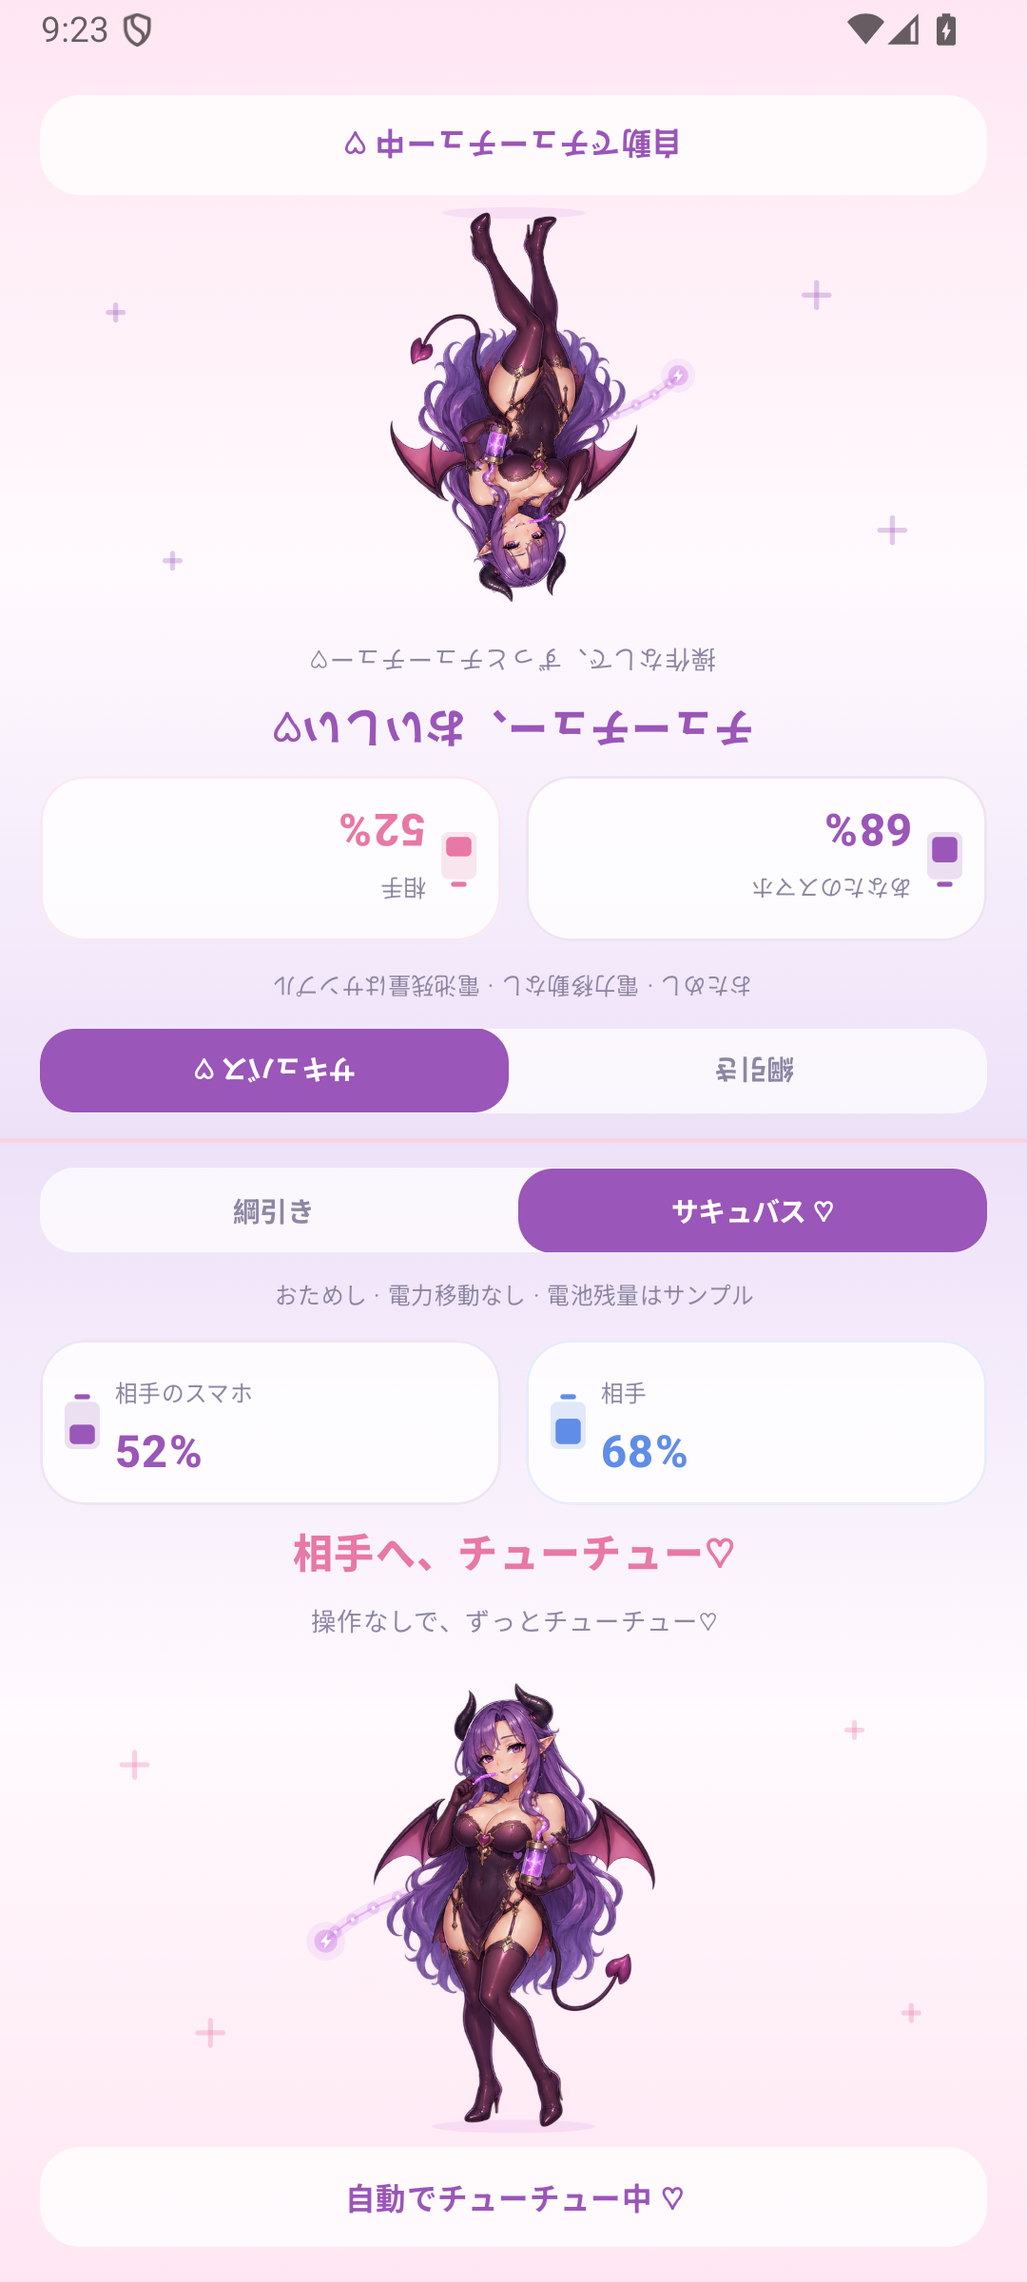
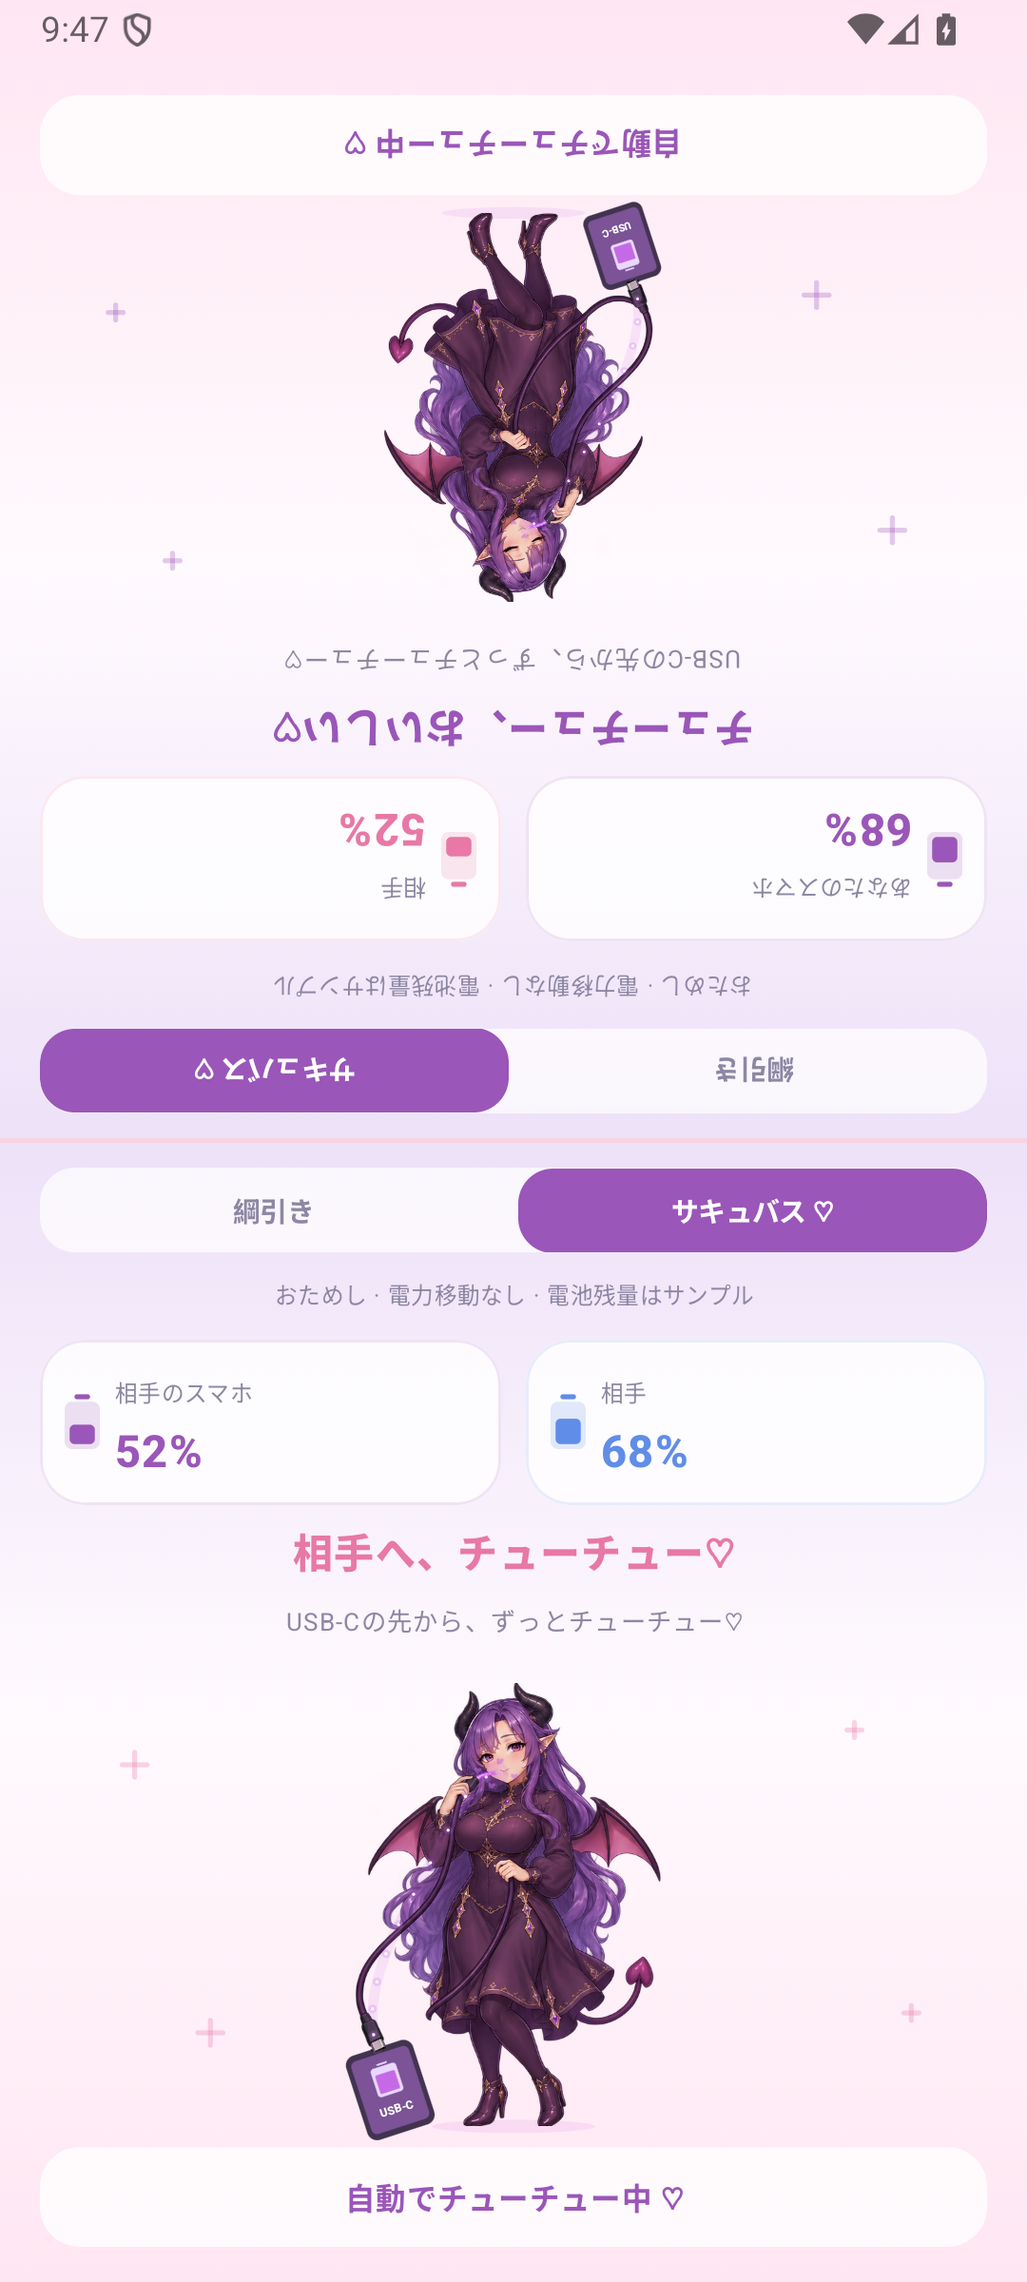
Show succubus sipping electricity from a connected USB-C cable

diff --git a/app/src/main/java/com/kenkawamoto/powerstruggle/SuccubusAnimation.kt b/app/src/main/java/com/kenkawamoto/powerstruggle/SuccubusAnimation.kt
@@ -14,6 +14,7 @@ import androidx.compose.runtime.setValue
 import androidx.compose.runtime.withFrameNanos
 import androidx.compose.ui.Modifier
 import androidx.compose.ui.geometry.Offset
+import androidx.compose.ui.geometry.CornerRadius
 import androidx.compose.ui.geometry.Size
 import androidx.compose.ui.graphics.Color
 import androidx.compose.ui.graphics.Path
@@ -41,37 +42,40 @@ private val Magic = Color(0xFFC56AE6)
 
 /** Adult character poses; original transparent artwork remains unchanged on disk. */
 private class SuccubusSprites(resources: Resources) {
-    class Frame(val bitmap: Bitmap, val feet: Offset, val battery: Offset, val mouth: Offset) {
+    class Frame(val bitmap: Bitmap, val feet: Offset, val cableTail: Offset, val usbTip: Offset, val upperRow: Boolean) {
         val vertices = FloatArray((SIP_COLUMNS + 1) * (SIP_ROWS + 1) * 2)
     }
     val paint = Paint(Paint.ANTI_ALIAS_FLAG or Paint.FILTER_BITMAP_FLAG)
+    val labelPaint = Paint(Paint.ANTI_ALIAS_FLAG).apply {
+        color = android.graphics.Color.WHITE
+        textSize = 19f
+        textAlign = Paint.Align.CENTER
+        typeface = android.graphics.Typeface.DEFAULT_BOLD
+    }
     val frames: List<Frame>
 
     init {
-        val atlas = checkNotNull(BitmapFactory.decodeResource(resources, R.drawable.succubus_sip_atlas))
+        val atlas = checkNotNull(BitmapFactory.decodeResource(resources, R.drawable.succubus_usb_sip_atlas))
         val sx = atlas.width / 1143f
         val sy = atlas.height / 1376f
         val anchors = listOf(
-            floatArrayOf(333f, 683f, 380f, 275f, 329f, 138f),
-            floatArrayOf(270f, 683f, 342f, 275f, 289f, 138f),
-            floatArrayOf(335f, 685f, 375f, 273f, 329f, 135f),
-            floatArrayOf(272f, 686f, 340f, 277f, 292f, 140f),
+            floatArrayOf(339f, 687f, 128f, 568f, 310f, 140f),
+            floatArrayOf(282f, 687f, 71f, 568f, 253f, 140f),
+            floatArrayOf(339f, 683f, 128f, 563f, 310f, 135f),
+            floatArrayOf(282f, 683f, 71f, 563f, 253f, 135f),
         )
         frames = List(4) { i ->
-            // The raised wing in the lower-left pose extends past the nominal cell edge.
-            // Give it the full gutter and keep its tip out of the lower-right pose.
-            val left = if (i % 2 == 0) 0 else if (i == 3) 600 else 571
-            val rightEdge = if (i % 2 != 0) 1143 else if (i == 2) 600 else 571
+            val left = if (i % 2 == 0) 0 else 571
+            val rightEdge = if (i % 2 != 0) 1143 else 571
             val x = (left * sx).toInt()
             val right = (rightEdge * sx).toInt()
-            // The lower horns start on row 687; put the boundary in the transparent gutter.
-            val y = if (i < 2) 0 else (686 * sy).toInt()
-            val bottom = if (i < 2) (686 * sy).toInt() else atlas.height
+            // The generated row boundary has two pixels of adjacent horn/shoe tips.
+            // Register clean source regions rather than rendering those stray fragments.
+            val y = if (i < 2) 0 else (692 * sy).toInt()
+            val bottom = if (i < 2) (687 * sy).toInt() else atlas.height
             val a = anchors[i]
-            val shiftX = if (i == 3) 29f else 0f
             Frame(Bitmap.createBitmap(atlas, x, y, right - x, bottom - y),
-                Offset((a[0] - shiftX) * sx, a[1] * sy),
-                Offset((a[2] - shiftX) * sx, a[3] * sy), Offset((a[4] - shiftX) * sx, a[5] * sy))
+                Offset(a[0] * sx, a[1] * sy), Offset(a[2] * sx, a[3] * sy), Offset(a[4] * sx, a[5] * sy), i < 2)
         }
     }
 }
@@ -85,7 +89,7 @@ internal fun SuccubusArena(energized: Boolean, energyToPlayer: Boolean, modifier
     var frameTime by remember { mutableLongStateOf(started) }
     LaunchedEffect(Unit) { while (true) withFrameNanos { frameTime = it } }
     Canvas(modifier.semantics {
-        contentDescription = "成人のサキュバスがストローで電力をチューチュー吸う。まばたきし、髪と翼が揺れる"
+        contentDescription = "成人のサキュバスがスマホにつながったUSB-Cケーブルの先から電力をすすっている。髪と翼が揺れる"
     }) {
         val t = (frameTime - started).coerceAtLeast(0L) / 1_000_000_000f
         // Two small sips, an eyes-closed sip, a wink, then a relaxed pause. No input needed.
@@ -109,27 +113,22 @@ internal fun SuccubusArena(energized: Boolean, energyToPlayer: Boolean, modifier
             scale(scale, scale, pivot = Offset.Zero)
         }) {
             drawOval(Magic.copy(alpha = 0.12f), Offset(245f, 775f), Size(270f, 22f))
-            val battery = origin + pose.deform(frame.battery) * characterScale
-            val mouth = origin + pose.deform(frame.mouth) * characterScale
-            val source = Offset(70f, 480f)
-            if (energized) drawSiphon(source, battery, t, energyToPlayer)
+            val tail = origin + pose.deform(frame.cableTail) * characterScale
+            val tip = origin + pose.deform(frame.usbTip) * characterScale
+            // The phone's port follows the free USB-C plug already drawn in each pose.
+            drawUsbPhone(tail, sprites.labelPaint)
             drawSipCharacter(frame, pose, origin, characterScale, sprites.paint)
             if (energized) {
-                // Particles travel along the prop's straw, without obscuring the face.
-                val bend = Offset(battery.x + 9f, mouth.y + 58f)
-                repeat(5) { i ->
-                    val progress = (t * 0.72f + i / 5f) % 1f
-                    val u = if (energyToPlayer) progress else 1f - progress
-                    val p = battery * ((1f - u) * (1f - u)) + bend * (2f * (1f - u) * u) + mouth * (u * u)
-                    drawCircle(Magic.copy(alpha = 0.23f), 8f, p)
-                    drawCircle(Color(0xFFFFE4FF), 2.6f, p)
-                }
+                val c1 = origin + pose.deform(frame.cableTail + Offset(-35f, -115f)) * characterScale
+                val c2 = origin + pose.deform(frame.usbTip + Offset(-110f, 175f)) * characterScale
+                val housing = origin + pose.deform(frame.usbTip + Offset(-37f, 13f)) * characterScale
+                drawUsbEnergy(tail, c1, c2, housing, tip, t, energyToPlayer)
                 val pulse = (1f + sin(t * 6.5f)) / 2f
-                drawCircle(Magic.copy(alpha = 0.18f), 18f + pulse * 9f, battery)
+                drawCircle(Magic.copy(alpha = 0.18f), 13f + pulse * 8f, tip)
                 repeat(4) { i ->
                     val angle = t * 0.8f + i * PI.toFloat() / 2
-                    val p = battery + Offset(cos(angle) * 46f, sin(angle) * 36f)
-                    drawMagicHeart(p, 5f + pulse * 2f, Magic.copy(alpha = 0.6f))
+                    val p = tip + Offset(cos(angle) * 31f, sin(angle) * 21f)
+                    drawMagicHeart(p, 3.5f + pulse * 1.5f, Magic.copy(alpha = 0.55f))
                 }
             }
         }
@@ -169,31 +168,49 @@ private fun DrawScope.drawSipCharacter(frame: SuccubusSprites.Frame, pose: SipPo
         val native = canvas.nativeCanvas
         native.withTranslation(origin.x, origin.y) {
             scale(scale, scale)
+            if (frame.upperRow) {
+                // A faint tip from the next row lies between the soles, outside this pose.
+                // Clip only that empty gap, retaining the boots' complete lower outlines.
+                clipOutRect(frame.feet.x - 12f, frame.feet.y - 7f,
+                    frame.feet.x + 12f, frame.bitmap.height + 8f)
+            }
             drawBitmapMesh(frame.bitmap, SIP_COLUMNS, SIP_ROWS, frame.vertices, 0, null, 0, paint)
         }
     }
 }
 
-private fun DrawScope.drawSiphon(source: Offset, battery: Offset, t: Float, inward: Boolean) {
-    val bend = Offset(source.x + 85f, source.y - 90f)
-    val path = Path().apply { moveTo(source.x, source.y); quadraticTo(bend.x, bend.y, battery.x, battery.y) }
-    drawPath(path, Magic.copy(alpha = 0.13f), style = Stroke(23f, cap = StrokeCap.Round))
-    drawPath(path, Magic.copy(alpha = 0.38f), style = Stroke(3.5f, cap = StrokeCap.Round))
-    repeat(8) { i ->
-        val progress = (t * 0.45f + i / 8f) % 1f
+private fun DrawScope.drawUsbPhone(port: Offset, labelPaint: Paint) {
+    withTransform({ rotate(-18f, pivot = port) }) {
+        val left = port.x - 58f
+        val top = port.y - 2f
+        drawRoundRect(Color(0xFF42334F), Offset(left, top), Size(116f, 146f), CornerRadius(17f))
+        drawRoundRect(Color(0xFF7B5396), Offset(left + 8f, top + 10f), Size(100f, 126f), CornerRadius(10f))
+        drawRoundRect(Color(0xFFEAD7FF), Offset(port.x - 22f, top + 31f), Size(44f, 49f), CornerRadius(6f))
+        drawRoundRect(Magic, Offset(port.x - 17f, top + 43f), Size(34f, 32f), CornerRadius(3f))
+        drawLine(Color(0xFFEAD7FF), Offset(port.x - 7f, top + 27f), Offset(port.x + 7f, top + 27f), 3f, StrokeCap.Round)
+        drawIntoCanvas { it.nativeCanvas.drawText("USB-C", port.x, top + 112f, labelPaint) }
+        // The generated connector's silver tip meets this port; there is no added cable join.
+        drawRoundRect(Color(0xFF20172B), Offset(port.x - 10f, top - 1f), Size(20f, 5f), CornerRadius(2f))
+    }
+}
+
+private fun DrawScope.drawUsbEnergy(source: Offset, c1: Offset, c2: Offset, housing: Offset, tip: Offset, t: Float, inward: Boolean) {
+    val path = Path().apply {
+        moveTo(source.x, source.y); cubicTo(c1.x, c1.y, c2.x, c2.y, housing.x, housing.y)
+        lineTo(tip.x, tip.y)
+    }
+    drawPath(path, Magic.copy(alpha = 0.12f), style = Stroke(17f, cap = StrokeCap.Round))
+    repeat(10) { i ->
+        val progress = (t * 0.42f + i / 10f) % 1f
         val u = if (inward) progress else 1f - progress
-        val p = source * ((1f - u) * (1f - u)) + bend * (2f * (1f - u) * u) + battery * (u * u)
-        drawCircle(Magic.copy(alpha = 0.24f), 10f, p)
-        drawCircle(Color.White, 3f, p)
+        val p = if (u > 0.9f) housing + (tip - housing) * ((u - 0.9f) / 0.1f) else {
+            val along = u / 0.9f
+            val v = 1f - along
+            source * (v * v * v) + c1 * (3f * v * v * along) + c2 * (3f * v * along * along) + housing * (along * along * along)
+        }
+        drawCircle(Magic.copy(alpha = 0.24f), 7f, p)
+        drawCircle(Color.White, 2.6f, p)
     }
-    drawCircle(Magic.copy(alpha = 0.1f), 36f + sin(t * 4f) * 4f, source)
-    drawCircle(Magic.copy(alpha = 0.35f), 19f, source)
-    val bolt = Path().apply {
-        moveTo(source.x + 3f, source.y - 13f); lineTo(source.x - 9f, source.y + 2f)
-        lineTo(source.x - 1f, source.y + 2f); lineTo(source.x - 3f, source.y + 13f)
-        lineTo(source.x + 9f, source.y - 2f); lineTo(source.x + 1f, source.y - 2f); close()
-    }
-    drawPath(bolt, Color.White)
 }
 
 private fun DrawScope.drawMagicHeart(center: Offset, radius: Float, color: Color) {

diff --git a/app/src/main/java/com/kenkawamoto/powerstruggle/MainActivity.kt b/app/src/main/java/com/kenkawamoto/powerstruggle/MainActivity.kt
@@ -276,7 +276,7 @@ private fun PlayerView(
             if (!short) {
                 Text(if (succubus) "サキュバスの充電タイム" else "POWER STRUGGLE", color = Ink, fontWeight = FontWeight.Black,
                     fontSize = if (succubus) 23.sp else 25.sp, letterSpacing = if (succubus) 0.sp else 2.sp)
-                Text(if (succubus) "チューチュー、でんりょくいただき♡" else "ふたりで、でんりょく綱引き。", color = Muted, fontSize = 13.sp,
+                Text(if (succubus) "USB-Cから、でんりょくいただき♡" else "ふたりで、でんりょく綱引き。", color = Muted, fontSize = 13.sp,
                     modifier = Modifier.padding(top = 4.dp, bottom = 18.dp))
             }
             VisualModeSelector(visualMode, onVisualMode, short)
@@ -295,8 +295,8 @@ private fun PlayerView(
                 fontSize = if (short) 16.sp else 21.sp, textAlign = TextAlign.Center)
             Text(
                 when {
-                    succubus && demo -> "操作なしで、ずっとチューチュー♡"
-                    succubus && !connected -> "専用アニメーションをおためしできるよ"
+                    succubus && demo -> "USB-Cの先から、ずっとチューチュー♡"
+                    succubus && !connected -> "USB-Cからすするアニメーションをおためし"
                     demo -> "青い子とピンクの子、どっちが勝つかな？"
                     !connected -> "USB-Cで2台のスマホをつないでね"
                     side.currentMa != null -> "実際のバッテリー電流  ${side.currentMa.signed()} mA"

diff --git a/docs/art/succubus-usb-sip.prompt.md b/docs/art/succubus-usb-sip.prompt.md
@@ -1,0 +1,24 @@
+# USB-C sipping animation — v0.5
+
+Mode: built-in `image_gen` (imagegen skill), edit, transparent background.
+Reference: archived `docs/art/succubus-sip-v0.4.png`.
+Runtime asset: `app/src/main/res/drawable-nodpi/succubus_usb_sip_atlas.png`.
+The accepted 1143 × 1376 RGBA PNG is copied intact, with alpha ranging from 0 to 255.
+The costume is a covered purple dress. Four expressions show the adult fantasy character
+sipping glowing electricity from a recognizable USB-C connector, with a thick USB cable.
+
+`SuccubusAnimation.kt` registers the feet, free USB plug and mouth-side USB tip in each pose.
+The phone's port follows the free plug under the same mesh deformation as the character.
+The generated artwork is preserved; row source rectangles exclude neighboring fragments.
+
+## Final accepted edit prompt
+
+```text
+Use case: precise-object-edit
+Asset type: transparent 2-by-2 game-animation sprite sheet.
+Reference: preserve the adult fantasy woman's face, violet hair, horns, bat wings, tail, boots and polished anime rendering from the reference. Make her costume MORE MODEST: a fully opaque high-neck purple dress with long sleeves, knee-length skirt, opaque leggings, boots. Fully clothed adult fantasy character.
+Replace the battery jar and drinking straw with an unmistakable USB-C charging cable. In each pose, one hand holds the black housing of a small silver USB-C connector a little in front of her mouth. She gently sips a tiny stream of glowing purple ELECTRICITY emerging from the metal connector, with a small air gap between plug and lips. The mouth makes a small rounded sipping shape. It must read as a charging-energy game animation, with no sexual action, suggestive gesture or bodily fluids.
+The same clearly visible thick dark-purple USB cable runs down from the connector; her other hand loosely guides the cable near her waist. The cable hangs in an open loop to the left, and terminates at a visible free cable tail in the lower-left of each frame, where the app will draw the phone connection. Do not draw a battery jar, bottle, straw or phone in the sprite.
+Four frames in reading order: eyes-open light sip, a slightly stronger puff-cheek sip, eyes-closed peaceful sip, pleased wink while sipping. Same adult character, scale, pose registration and costume across all four. Keep the connector's silver rounded-rectangle USB-C tip and black plastic housing clearly recognizable.
+Exact 2-by-2 grid, each complete head-to-boot character and the entire cable fits inside its own cell with 8% transparent padding on every side, no crossing into other cells. Transparent background, no floor, frame borders, text, checkerboard pattern or watermark. Only a small electrical glow at the USB connector; no floating particles elsewhere.
+```

diff --git a/README.md b/README.md
@@ -20,7 +20,7 @@ percentage and charging status in connected play still come from the device's ba
   mirrors the scene as needed so its own girl matches the local tug meter.
 - **接続の詳細** contains Shizuku setup instructions and connection diagnostics.
 - Choose **サキュバス ♡** for an alternate viewing mode: an adult fantasy character
-  continuously sips glowing battery energy through a straw, with four expression poses,
+  continuously sips glowing electricity from a USB-C connector, with four expression poses,
   breathing and animated hair/wings. No tapping is needed. **チューチューを眺める** starts
   a clearly labeled local preview; connected play shows the actual direction of power flow.
   This visual mode does not send game taps or request automatic power swaps. Switch back to
@@ -33,8 +33,9 @@ atlases are `tug_emotes_atlas.png` and `tug_pink_pull_atlas.png` in
 `app/src/main/res/drawable-nodpi/`. Their source rectangles, planted-foot pivots and hand grips
 are registered in `TugAnimation.kt`; the generated PNGs are preserved intact.
 See [`the animation prompts`](docs/art/tug-animation-prompts.md) for the artwork instructions.
-The alternate-mode artwork is `succubus_sip_atlas.png`; its generation instructions are in
-[`the succubus prompt`](docs/art/succubus-sip.prompt.md).
+The alternate-mode artwork is `succubus_usb_sip_atlas.png`. A thick charging cable connects
+the animated USB-C tip near her lips to a phone with a visible USB port. Its generation
+instructions are in [`the USB-C succubus prompt`](docs/art/succubus-usb-sip.prompt.md).
 
 <p align="center">
   <img src="docs/chibi-waiting.png" width="230" alt="Chibi girls on the connection screen">

diff --git a/docs/ui-validation.md b/docs/ui-validation.md
@@ -1,5 +1,28 @@
 # Chibi UI validation — 2026-10-05
 
+## USB-C sipping artwork — v0.5
+
+The succubus now holds a recognizable metal USB-C connector at her mouth. A thick USB
+cable leads to the second connector, which plugs into a drawn phone. The phone's port follows
+that connector through the same pose deformation, keeping the connection together during
+the animation. The small bottle and drinking straw have been removed. Electrical particles
+travel from the phone along the cable to the mouth-side tip, reversing for outflow.
+
+The four new expression poses retain the adult character's face, violet hair, horns and
+wings, with a covered purple dress. The original PNG is archived in
+`docs/art/succubus-sip-v0.4.png`; the new transparent atlas and accepted edit prompt are saved.
+
+`assembleDebug lintDebug --max-workers=2 --no-daemon` passed with no errors and the three
+existing SDK/orientation warnings. API 36 host-GPU checks verified the hands-free loop,
+preview labels, stable sample batteries, tug controls after switching, mode persistence,
+Android Back, outflow labeling, both opposing halves, and absence of fatal app exceptions.
+The final visual capture also checked waiting and split layouts with the updated connector
+registration. The phone, cable, connector and facial expressions were visually inspected.
+
+The updated APK and native nine-second video are
+`output/PowerStruggle-usb-sip-v0.5-debug.apk` and `output/PowerStruggle-usb-sip-v0.5.mp4`.
+Real USB transfer on two physical phones remains untested.
+
 ## Alternate viewing mode — v0.4
 
 The mode selector adds a self-running adult succubus sipping battery energy through a

diff --git a/docs/art/succubus-sip.prompt.md b/docs/art/succubus-sip.prompt.md
@@ -1,7 +1,9 @@
 # Succubus sipping animation — v0.4
 
 Mode: built-in `image_gen` (imagegen skill), generate, transparent background.
-Runtime asset: `app/src/main/res/drawable-nodpi/succubus_sip_atlas.png`.
+Original runtime asset (v0.4): `app/src/main/res/drawable-nodpi/succubus_sip_atlas.png`.
+Archived source: `docs/art/succubus-sip-v0.4.png`. The current mode uses the USB-C revision
+documented in `succubus-usb-sip.prompt.md`.
 The selected 1143 × 1376 PNG is copied intact; `SuccubusAnimation.kt` registers four
 runtime source rectangles and animates a bitmap mesh. It depicts an adult fantasy
 character sipping battery energy through a straw.
